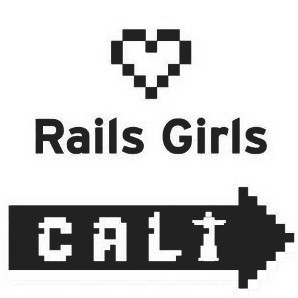
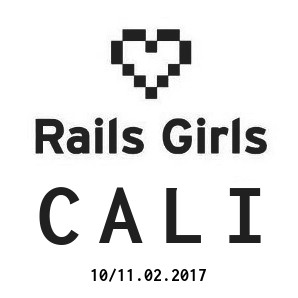
[CALI] update rails girls cali page

Changed region(s): [[0.0, 0.604, 0.9966, 0.9664]]

diff --git a/cali.html b/cali.html
@@ -3,7 +3,7 @@
   <head>
     <meta charset="utf-8">
     <!--  Add your city name, dates and year.  -->
-    <title>Cali, 29 y 30 de Abril 2016</title>
+    <title>Cali, 10 y 11 de Febrero 2017</title>
     <!--  Write a metatext. This is what will show on the Facebook page and for instance search engines. -->
     <meta name="description" content="Rails Girls goes Cali April 2016: join the two-day crash-course to the exciting world of building web applications with Ruby on Rails.">
     <meta name="author" content="Rails Girls">
@@ -75,18 +75,33 @@
       </div>
     </header>
 
+    <div class='cali_header'>
+      <div class='cali_header_content'>
+        <h1>
+          Rails Girls Cali
+          <small>10-11.02.2017</small>
+        </h1>
+        <p>
+          <a href="#" class='cali_header_button'>Inscripción</a>
+          <a href="mailto:hello@railsgirlscali.com" class='cali_header_button'>Coach</a>
+          <a href="mailto:hello@railsgirlscali.com" class='cali_header_button'>Patrocinador</a>
+        </p>
+      </div>
+    </div>
+
     <div id="container" class="container_12 page clearfix">
       <div class="grid_12 omega alpha">
         <div id="promo" class="cali">
           <h1>Rails Girls Cali
-            <small> 29 y 30 de Abril 2016</small>
+            <small> 10 y 11 de Febrero 2017</small>
           </h1>
-          <p>Rails Girls llega a Cali por primera vez!. Participa de un taller gratuito donde aprenderás a desarrollar aplicaciones web con Ruby on Rails. </p>
+          <p>En su segunda versión, durante dos días de nuestro taller gratuito, estaremos entrando al mágico mundo de la construcción de aplicaciones web</p>
+          <p>Railsmocionate y construye cosas increíbles!</p>
           <!--  Update the sharing texts.-->
-          <div id="share">
+          <!-- <div id="share">
             <div>
               <div style="margin:0 15px 0 0;">
-                <a href="http://twitter.com/share" class="twitter-share-button" data-url="" data-text="Rails Girls  Cali - Abril 2016 - Inscríbete gratis!" data-count="horizontal" data-via="RailsGirlscali" data-related="railsgirls">
+                <a href="http://twitter.com/share" class="twitter-share-button" data-url="" data-text="Rails Girls  Cali - Febrero 2017 - Inscríbete gratis!" data-count="horizontal" data-via="RailsGirlscali" data-related="railsgirls">
                 Tweet</a>
                 <script type="text/javascript" src="http://platform.twitter.com/widgets.js"></script>
               </div>
@@ -95,8 +110,13 @@
               <script src="http://connect.facebook.net/en_US/all.js#appId=156007477805811&amp;xfbml=1"></script>
               <fb:like href="" layout="button_count" send="true" width="160" show_faces="false" font=""></fb:like>
             </div>
-          </div>
+          </div> -->
+          <p>¡Inscríbete Gratis!</p>
+          <a href="#" class='cali_header_button'>Inscripción</a>
+          <a href="mailto:hello@railsgirlscali.com" class='cali_header_button'>Coach</a>
+          <a href="mailto:hello@railsgirlscali.com" class='cali_header_button'>Patrocinador</a>
           <div>
+          <br>
             <h3>Lugar del Evento</h3>
             <p>Cámara de Comercio de Cali - Sala Múltiple 2 | Sótano<br>
               Calle 8 No. 3 - 14<br>
@@ -110,17 +130,17 @@
         </div>
         <div class="grid_6 omega side">
           <h1>Información</h1>
-          <!-- <p>Las inscripciones son totalmente <strong>gratuitas</strong>  pero los cupos son <strong>limitados</strong>,<strong> Inscripciones <a href="https://docs.google.com/forms/d/11z0gP-LdHZmsZ1a8_J3mLzxWiep5XJY9kSmWZVKUCO8/viewform" target="_blank">abiertas</a> </strong></p> -->
-          Las inscripciones al evento han sido cerradas, gracias por tu valiosa participación.
+          <p>Las inscripciones son totalmente <strong>gratuitas</strong>  pero los cupos son <strong>limitados</strong>,<strong> Inscripciones <a href="#" target="_blank">abiertas</a> </strong></p>
+          <!-- Las inscripciones al evento han sido cerradas, gracias por tu valiosa participación. -->
           <p>Lee nuestro <a href="https://docs.google.com/document/d/1Q16fJUjKhBFFWsxPRoxNekDghXYAcPa9ZGAV0lRUBgo/edit?usp=sharing" target="_blank">Código de Conducta</a>.</p>
           <div class="">
-            <p><strong>Aprenderás</strong> a diseñar, prototipar y   codificar con la ayuda de nuestros tutores.</p>
+            <p><strong>Aprenderás</strong> a diseñar, prototipar y codificar con la ayuda de nuestros tutores.</p>
           </div>
           <div class="">
             <p><strong>Necesitas</strong> tu propio computador (preferiblemente), curiosidad y una pizca de imaginación.</p>
           </div>
           <div class="">
-            <p><strong>Quieres ayudar?</strong> Estamos buscando voluntarios y apoyos económicos <a href="railsgirlscali@gmail.com">Contáctanos</a>.</p>
+            <p><strong>Quieres ayudar?</strong> Estamos buscando voluntarios y apoyos económicos <a href="hello@railsgirlscali.com">Contáctanos</a>.</p>
           </div>
           <hr/>
           </strong><br/>
@@ -128,11 +148,11 @@
         </div>
         <div class="grid_12 omega">
           <a name="schedule"><h1 style="margin-top: 20px; margin-bottom:0;">Agenda</h1></a>
-         <h2 style="margin-top:0">Viernes, Abril 29, 2016</h2>
+         <h2 style="margin-top:0">Viernes, Febrero 10, 2017</h2>
           <table class="schedule-tables">
             <tbody>
               <tr>
-                <th><strong>12:00 - 01:30pm</strong></th>
+                <th><strong>1:00 - 01:30pm</strong></th>
                 <td>
                   <h3>Registro</h3>
                     <p>Espacio para <em>registro</em> y <em>reconocimiento</em>, conoce el sitio, las instalaciones y escoge tu lugar preferido, aqui comienza nuestra gran aventura!</p>
@@ -175,7 +195,7 @@
             </tbody>
           </table>
           <hr />
-          <h2>Sábado, Abril 30, 2016</h2>
+          <h2>Sábado, Febrero 11, 2017</h2>
           <table class="schedule-tables">
             <tbody>
             <tr>
@@ -265,24 +285,9 @@
         <div class="grid_12 omega">
           <h3>Patrocinadores</h3>
           <p> Rails Girls Cali es co-organizado con nuestros patrocinadores. </p>
-          <p> ¿Quieres ayudar? Estamos buscando  patrocinadores para el evento sin fines de lucro, <a href="mailto:railsgirlscali@gmail.com"> Envíanos un correo electrónico!</a> </p-->
+          <p> ¿Quieres ayudar? Estamos buscando  patrocinadores para el evento sin fines de lucro, <a href="mailto:hello@railsgirlscali.com"> Envíanos un correo electrónico!</a> </p>
 
-          <div class="grid_2 alpha" style="margin-top:2.5em">
-            <a href="http://codescrum.com/" target="_blank" style="display:block; margin: 0; border:0;">
-              <img src="./images/cali/sponsors/codescrum.png" alt="Codescrum" style="width:100%; margin: 0 0;">
-            </a>
-          </div>
-          <div class="grid_10 omega">
-            <p style="margin-top:2em"><a href="http://codescrum.com/" target="_blank">Codescrum</a> Empresa especializada en la consultoría y desarrollo de aplicaciones web y de internet B2B para pequeñas y medianas empresas. Codescrum fundamenta su operación en procesos modernos de gestión de proyectos, desarrollo ágil, utilización de herramientas y plataformas eficientes basadas en conceptos de reutilización y automatización. Igualmente, las técnicas y metodologías utilizadas por Codescrum comprenden buenas prácticas, actualización constante e innovación.</p>
-          </div>
-          <div class="grid_2 alpha" style="margin-top:2.5em">
-            <a href="http://www.makeitreal.camp/" target="_blank" style="display:block; margin: 0; border:0;">
-              <img src="./images/cali/sponsors/makeitreal.png" alt="MAKEitREAL" style="width:100%; margin: 0 0;">
-            </a>
-          </div>
-          <div class="grid_10 omega">
-            <p style="margin-top:2em"><a href="http://www.makeitreal.camp/" target="_blank">MAKE it REAL</a> ofrece programas online y presenciales para que te conviertas en Web Developer con el apoyo de mentores experimentados.</p>
-          </div>
+
           <div class="grid_2 alpha" style="margin-top:2.5em">
             <a href="http://www.ccc.org.co/" target="_blank" style="display:block; margin: 0; border:0;">
               <img src="./images/cali/sponsors/ccc.jpg" alt="Cámara de Comercio de Cali" style="width:100%; margin: 0 0;">
@@ -291,31 +296,6 @@
           <div class="grid_10 omega">
             <p style="margin-top:2em"><a href="http://www.ccc.org.co/" target="_blank">Cámara de Comercio de Cali</a> En la Cámara de Comercio de Cali nos propusimos desafiar a los empresarios a crecer rentable y sosteniblemente y a competir con éxito en una economía global para construir una región más competitiva.</p>
           </div>
-          <div class="grid_2 alpha" style="margin-top:2.5em">
-            <a href="http://creadev.co" target="_blank" style="display:block; margin: 0; border:0;">
-              <img src="./images/cali/sponsors/creadev.png" alt="CreaDev" style="width:100%; margin: 0 0;">
-            </a>
-          </div>
-          <div class="grid_10 omega">
-            <p style="margin-top:2em"><a href="http://creadev.co" target="_blank">CreaDev</a> Somos una empresa Jóven nacida en el 2015 dedicada a la animación, diseño gráfico y desarrollo de páginas web óptimas. En nuestro recorrido hemos apoyado con nuestro trabajo desde emprendedores del Tecnoparque hasta fundaciones lideradas por docentes de Univalle.</p>
-          </div>
-          <div class="grid_2 alpha" style="margin-top:2.5em">
-            <a href="https://platzi.com/" target="_blank" style="display:block; margin: 0; border:0;">
-              <img src="./images/cali/sponsors/platzi.png" alt="Platzi" style="width:100%; margin: 0 0;">
-            </a>
-          </div>
-          <div class="grid_10 omega">
-            <p style="margin-top:2em"><a href="https://platzi.com/" target="_blank">Platzi</a> Cursos profesionales de desarrollo web y de apps, marketing online, diseño de interfaces, servidores. Con clases en vivo y profesores sabios de la industria.</p>
-          </div>
-          <div class="grid_2 alpha" style="margin-top:2.5em">
-            <a href="https://worldtechmakers.com/" target="_blank" style="display:block; margin: 0; border:0;">
-              <img src="./images/cali/sponsors/world-tech-makers.png" alt="World Tech Makers" style="width:100%; margin: 0 0;">
-            </a>
-          </div>
-          <div class="grid_10 omega">
-            <p style="margin-top:2em"><a href="https://worldtechmakers.com/" target="_blank">World Tech Makers</a> Aprende a escribir código de manera limpia y a crear productos de software. Aprende de un equipo global apoyado por el legendario Tim Draper.</p>
-          </div>
-
         </div>
         <div class="grid_12 coaches">
           <hr/>
@@ -333,53 +313,23 @@
         <div class="grid_12 coaches">
           <hr/>
           <h2>Cali Team</h2>
-          <a href="https://twitter.com/pipemun" target="_blank" class="grid_3">
+          <a href="https://twitter.com/chougeral" target="_blank" class="grid_3">
             <!-- <img src="https://s3-us-west-2.amazonaws.com/railsgirlscali/avatars/roundandres.jpg" class="coach" style="border:none;"> -->
-            Andrés Muñoz
-            <small>@pipemun</small>
-            <small class="cali bta-role">Organiser</small>
-          </a>
-          <a href="https://twitter.com/johan_tique" target="_blank" class="grid_3">
-            <!-- <img src="https://s3-us-west-2.amazonaws.com/railsgirlscali/avatars/roundvictor.png" class="coach" style="border:none;"> -->
-            Johan Tique
-            <small class="cali">@johan_tique</small>
+            Geraldine Caicedo
+            <small>@chougeral</small>
             <small class="cali bta-role">Organiser - Coach</small>
           </a>
-          <a href="https://twitter.com/im_cortex" target="_blank" class="grid_3">
-            <!-- <img src="https://s3-us-west-2.amazonaws.com/railsgirlscali/avatars/roundvictor.png" class="coach" style="border:none;"> -->
-            Victor Cortes
-            <small class="cali">@im_cortex</small>
-            <small class="cali bta-role">Coach</small>
-          </a>
-          <a href="https://twitter.com/chuchobassman" target="_blank" class="grid_3">
+          <a href="https://twitter.com/dcarolinahdev" target="_blank" class="grid_3">
             <!-- <img src="https://s3-us-west-2.amazonaws.com/railsgirlscali/avatars/roundpedro.png" class="coach" style="border:none;"> -->
-             Jesús Muñoz
-            <small class="cali">@chuchobassman</small>
-            <small class="cali bta-role"> Coach</small>
+             Carolina Hernández
+            <small class="cali">@dcarolinahdev</small>
+            <small class="cali bta-role">Organiser - Coach</small>
           </a>
-          <a href="https://twitter.com/estebance" target="_blank" class="grid_3">
-            <!-- <img src="https://s3-us-west-2.amazonaws.com/railsgirlscali/avatars/roundjuan.png" class="coach" style="border:none;" /> -->
-            Esteban Cerón
-            <small class="cali">@estebance</small>
-            <small class="cali bta-role"> Coach</small>
-          </a>
-          <a href="https://twitter.com/BastianVelandia" target="_blank" class="grid_3">
-            <!-- <img src="https://s3-us-west-2.amazonaws.com/railsgirlscali/avatars/roundjuan.png" class="coach" style="border:none;" /> -->
-            Sebastian Velandia
-            <small class="cali">@BastianVelandia</small>
-            <small class="cali bta-role"> Coach</small>
-          </a>
-          <a href="https://twitter.com/jroadev" target="_blank" class="grid_3">
-            <!-- <img src="https://s3-us-west-2.amazonaws.com/railsgirlscali/avatars/roundjuan.png" class="coach" style="border:none;" /> -->
-            Juan Roa
-            <small class="cali">@jroadev</small>
-            <small class="cali bta-role"> Coach</small>
-          </a>
-          <a href="https://twitter.com/samirbasante" target="_blank" class="grid_3">
+          <a href="https://twitter.com/fashionate" target="_blank" class="grid_3">
             <!-- <img src="https://s3-us-west-2.amazonaws.com/railsgirlscali/avatars/roundsamir.png" class="coach" style="border:none;"> -->
-            Samir Basante
-            <small class="cali">@samirbasante</small>
-            <small class="cali bta-role">Designer</small>
+            Stella Miranda
+            <small class="cali">@fashionate</small>
+            <small class="cali bta-role">Coach</small>
           </a>
           <a href="https://twitter.com/ChrisEstanol" target="_blank" class="grid_3">
             <!-- <img src="https://s3-us-west-2.amazonaws.com/railsgirlscali/avatars/roundsamir.png" class="coach" style="border:none;"> -->
@@ -387,18 +337,24 @@
             <small class="cali">@ChrisEstanol</small>
             <small class="cali bta-role">Coach</small>
           </a>
-          <a href="https://twitter.com/gato_omega" target="_blank" class="grid_3">
-            <!-- <img src="https://s3-us-west-2.amazonaws.com/railsgirlscali/avatars/roundsamir.png" class="coach" style="border:none;"> -->
-            Miguel Diaz
-            <small class="cali">@gato_omega</small>
-            <small class="cali bta-role">Coach</small>
+          <a href="https://twitter.com/jroadev" target="_blank" class="grid_3">
+            <!-- <img src="https://s3-us-west-2.amazonaws.com/railsgirlscali/avatars/roundjuan.png" class="coach" style="border:none;" /> -->
+            Juan Roa
+            <small class="cali">@jroadev</small>
+            <small class="cali bta-role">Staff - Coach</small>
+          </a>
+          <a href="https://twitter.com/johan_tique" target="_blank" class="grid_3">
+            <!-- <img src="https://s3-us-west-2.amazonaws.com/railsgirlscali/avatars/roundvictor.png" class="coach" style="border:none;"> -->
+            Johan Tique
+            <small class="cali">@johan_tique</small>
+            <small class="cali bta-role">Staff - Coach</small>
           </a>
         </div>
       </div>
     </div>
     <!-- /content -->
     <footer>
-      <p>2010-2016, Rails Girls. <a href="./press.html">Contact us</a> or follow us on <a href="http://twitter.com/railsgirls">Twitter</a> and <a href="https://www.facebook.com/railsgirls">Facebook</a></p>
+      <p>2010-2017, Rails Girls. <a href="./press.html">Contact us</a> or follow us on <a href="http://twitter.com/railsgirls">Twitter</a> and <a href="https://www.facebook.com/railsgirls">Facebook</a></p>
       <p class="slogan">Get excited and make things!</p>
     </footer>
     <script type="text/javascript">

diff --git a/css/style.css b/css/style.css
@@ -2459,6 +2459,76 @@ a:hover.bratislava2014-a {
   background-size: 320px;
 }
 
+/* Cali 2017 */
+.cali_header {
+  background: #d3360b url('../images/cali/railsgirls-with-background.jpg') no-repeat;
+  background-size: cover;
+  display: table;
+  height: 100vh;
+  height: 1vm;
+  width: 100%;
+}
+
+.cali_header_content {
+  display: table-cell;
+  /*vertical-align: middle;*/
+  text-align: center;
+  padding: 3em 0;
+  position: relative;
+  /*top: 10px;*/
+}
+
+.cali_header h1 {
+  color: #fff;
+  font-size: 42px;
+  margin: 0 0 0.25em;
+}
+
+.cali_header h1 small {
+  display: block;
+  font-size: 24px;
+}
+
+.cali_header p {
+  color: #fff;
+  max-width: 30em;
+  margin: 0 auto 1em;
+  font-size: 26px;
+  text-shadow: 1px 1px rgba(0,0,0,0.3);
+}
+
+.cali_header_button {
+  background: transparent;
+  border: 3px solid white;
+  padding: 1em 1.5em;
+  font-weight: bold;
+  font-size: 16px;
+  color: #fff;
+  margin: 0 0.5em;
+  display: inline-block;
+}
+
+.cali_header_button:hover {
+  background: #C2320A;
+}
+
+.cali_header_button {
+  background: #C2320A;
+  border: 3px solid white;
+  padding: 1em 1.5em;
+  font-weight: bold;
+  font-size: 16px;
+  color: #fff;
+  margin: 0 0.5em;
+  display: inline-block;
+  transition: background-color 0.4s;
+}
+
+.cali_header_button:hover {
+  background: #6d0001;
+}
+
+
 /* Helsinki 2015 */
 .helsinki_header {
   background: #d3360b url('../images/thinkers.jpg') no-repeat;
